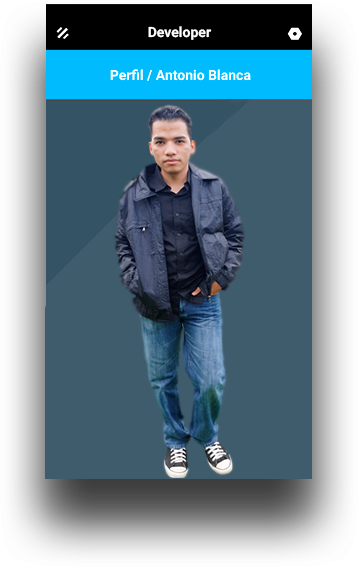
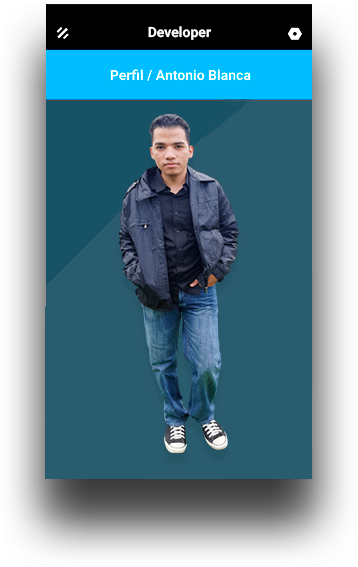
Added new picture and new contact buttons

diff --git a/index.html b/index.html
@@ -4,8 +4,9 @@
     <meta charset="utf-8">
     <meta http-equiv="X-UA-Compatible" content="IE=edge">
     <title>AntonioB DEV</title>
-    <meta name="description" content="Roxy">
+    <meta name="description" content="Portafolios de Antonio Blanca || Desarrollador web especializado en WordPress">
     <meta name="viewport" content="width=device-width, initial-scale=1, shrink-to-fit=no">
+    <link rel="icon" type="image/png" href="img/favicon-32x32.png" sizes="32x32">
 
     <!-- External CSS -->
     <link rel="stylesheet" href="vendor/bootstrap/bootstrap.min.css">
@@ -47,7 +48,7 @@
 
                      <li class="nav-item only-desktop">
                         <a class="nav-link" id="side-nav-open" href="#">
-                            <span class="lnr lnr-menu"></span>
+                            <span class="fa fa-bars"></span>
                         </a>
                     </li>
                 </ul>
@@ -229,7 +230,7 @@
                                 <div class="progress-bar" role="progressbar" style="width: 95%;" aria-valuenow="95" aria-valuemin="0" aria-valuemax="100">Child Themes 95%</div>
                             </div>
 
-                            <button type="button" class="btn btn-outline-primary">CONTACTAR</button>
+                            <a href="#contacto" class="btn btn-outline-primary">CONTACTAR</a>
                         </div><!--/ .col-md-4.col-md-offset-2.col-sm-6 -->
 
                         <div class="col-md-4 offset-md-right-2 col-sm-6" data-aos="flip-right">
@@ -246,7 +247,6 @@
 </section>
 
 <section id="section-featurettes" class="featurettes">
-
     <div class="container">
         <div class="section-content">
             <div class="row">
@@ -254,7 +254,7 @@
                     <div class="row align-items-center">
 
                         <div class="col-md-4 offset-md-2 col-sm-6" data-aos="flip-left">
-                            <img class="my-5" src="img/app-profile-mockup.png" alt="">
+                            <img class="my-5" src="img/pic-antoniob_2.png" alt="">
                         </div><!--/ .col-md-4.col-md-offset-right-2.col-sm-6 -->
 
                         <div class="col-md-4 offset-md-right-2 col-sm-6" data-aos="fade-left">
@@ -263,11 +263,19 @@
                             <div class="progress mb-3">
                                 <div class="progress-bar" role="progressbar" style="width: 95%;" aria-valuenow="95" aria-valuemin="0" aria-valuemax="100">HTML5 95%</div>
                             </div>
+
                             <div class="progress mb-4">
                                 <div class="progress-bar" role="progressbar" style="width: 90%;" aria-valuenow="90" aria-valuemin="0" aria-valuemax="100">CSS3 90%</div>
                             </div>
 
-                            <button type="button" class="btn btn-primary">CONTACTAR</button>
+                            <div class="progress mb-4">
+                                <div class="progress-bar" role="progressbar" style="width: 90%;" aria-valuenow="90" aria-valuemin="0" aria-valuemax="100">PHP 90%</div>
+                            </div>
+
+                            <div class="progress mb-4">
+                                <div class="progress-bar" role="progressbar" style="width: 80%;" aria-valuenow="90" aria-valuemin="0" aria-valuemax="100">JavaScript 80%</div>
+                            </div>
+                            <a href="#contacto" class="btn btn-primary">CONTACTAR</a>
                         </div><!--/ .col-md-4.col-md-offset-2.col-sm-6 -->
 
                     </div><!--/ .featurettes-item -->
@@ -435,22 +443,16 @@
                     SIN COMPROMISO
                 </h2>
                 <p class="mb-4 text-center px-md-5">Puede escribirme por los medios proporcionados <b>SIN COSTO ALGUNO</b> para que podamos evaluar su proyecto y brindarle la mejor solución.</p>
-
-                <ul class="list-inline py-2">
-                    <li class="list-inline-item text-center">
-                        <span class="fa fa-whatsapp fs-40"></span>
-                        <p>Whatsapp</p>
+                <ul class="list-inline py-2 text-center">
+                    <li class="list-inline-item text-center pr-3">
+                        <a href="https://api.whatsapp.com/send?phone=584268946000&text=Hola%20Antonio%2C%20he%20visitado%20tu%20portafolios%20y%20me%20gustar%C3%ADa%20conversar%20contigo%20sobre%20mi%20proyecto"class="fab fa-whatsapp fs-40" target="_blank"></a>
+                        <p><a href="https://api.whatsapp.com/send?phone=584268946000&text=Hola%20Antonio%2C%20he%20visitado%20tu%20portafolios%20y%20me%20gustar%C3%ADa%20conversar%20contigo%20sobre%20mi%20proyecto" class="btn btn-link p-0" target="_blank"><span>IR AL WHATSAPP</span></a></p>
                     </li>
-                    <li class="list-inline-item text-center">
-                        <span class="fa fa-telegram fs-40"></span>
-                        <p>Telegram</p>
+                    <li class="list-inline-item text-center pl-3">
+                        <a href="https://t.me/solucweb" class="fab fa-telegram-plane fs-40" target="_blank"></a>
+                        <p><a href="https://t.me/solucweb" class="btn btn-link p-0" target="_blank"><span>IR AL TELEGRAM</span></a></p>
                     </li>
                 </ul>
-
-                <a href="#" class="btn btn-link p-0">
-                    <span>IR AL WHATSAPP</span>
-                    <span class="lnr lnr-arrow-right"></span>
-                </a>
             </div>
         </div>
         
@@ -479,11 +481,11 @@
          	<div class="col-lg-4 col-md-12 d-flex align-items-center">
          		
          	</div>
-         	<div class="col-lg-4 col-md-12 d-flex align-items-center">
+         	<div class="col-lg-12 col-md-12 d-flex align-items-center">
          		<p class="mx-auto text-center mb-0">&copy; 2021 Antonio B-DEV || Roxy. Design by <a href="https://gettemplates.co" target="_blank">GetTemplates</a>.</p>
          	</div>
            
-            <div class="col-lg-4 col-md-12">
+            <!-- <div class="col-lg-4 col-md-12">
             	<nav class="nav nav-mastfoot justify-content-center">
 	                <a class="nav-link" href="#">
 	                	<i class="fab fa-facebook-f"></i>
@@ -501,7 +503,7 @@
 	                	<i class="fab fa-youtube"></i>
 	                </a>
 	            </nav>
-            </div>
+            </div> -->
             
         </div>
     </div>

diff --git a/css/style.min.css b/css/style.min.css
@@ -39,7 +39,12 @@ button:focus {
 .btn:hover,
 a:hover {
   text-decoration: none;
-  color: #9470fe; }
+  color: #9470fe;
+}
+.progress {
+    height: 1.3rem;
+    font-size: 1.0rem;
+}
 
 img {
   max-width: 100%; }
@@ -782,7 +787,7 @@ section {
   .grid-item {
     width: 100%; }
   .progress {
-    height: 30px;
+    height: 25px;
     font-size: 16px; } }
 
 /*=====  End of RESPONSIVE  ======*/
